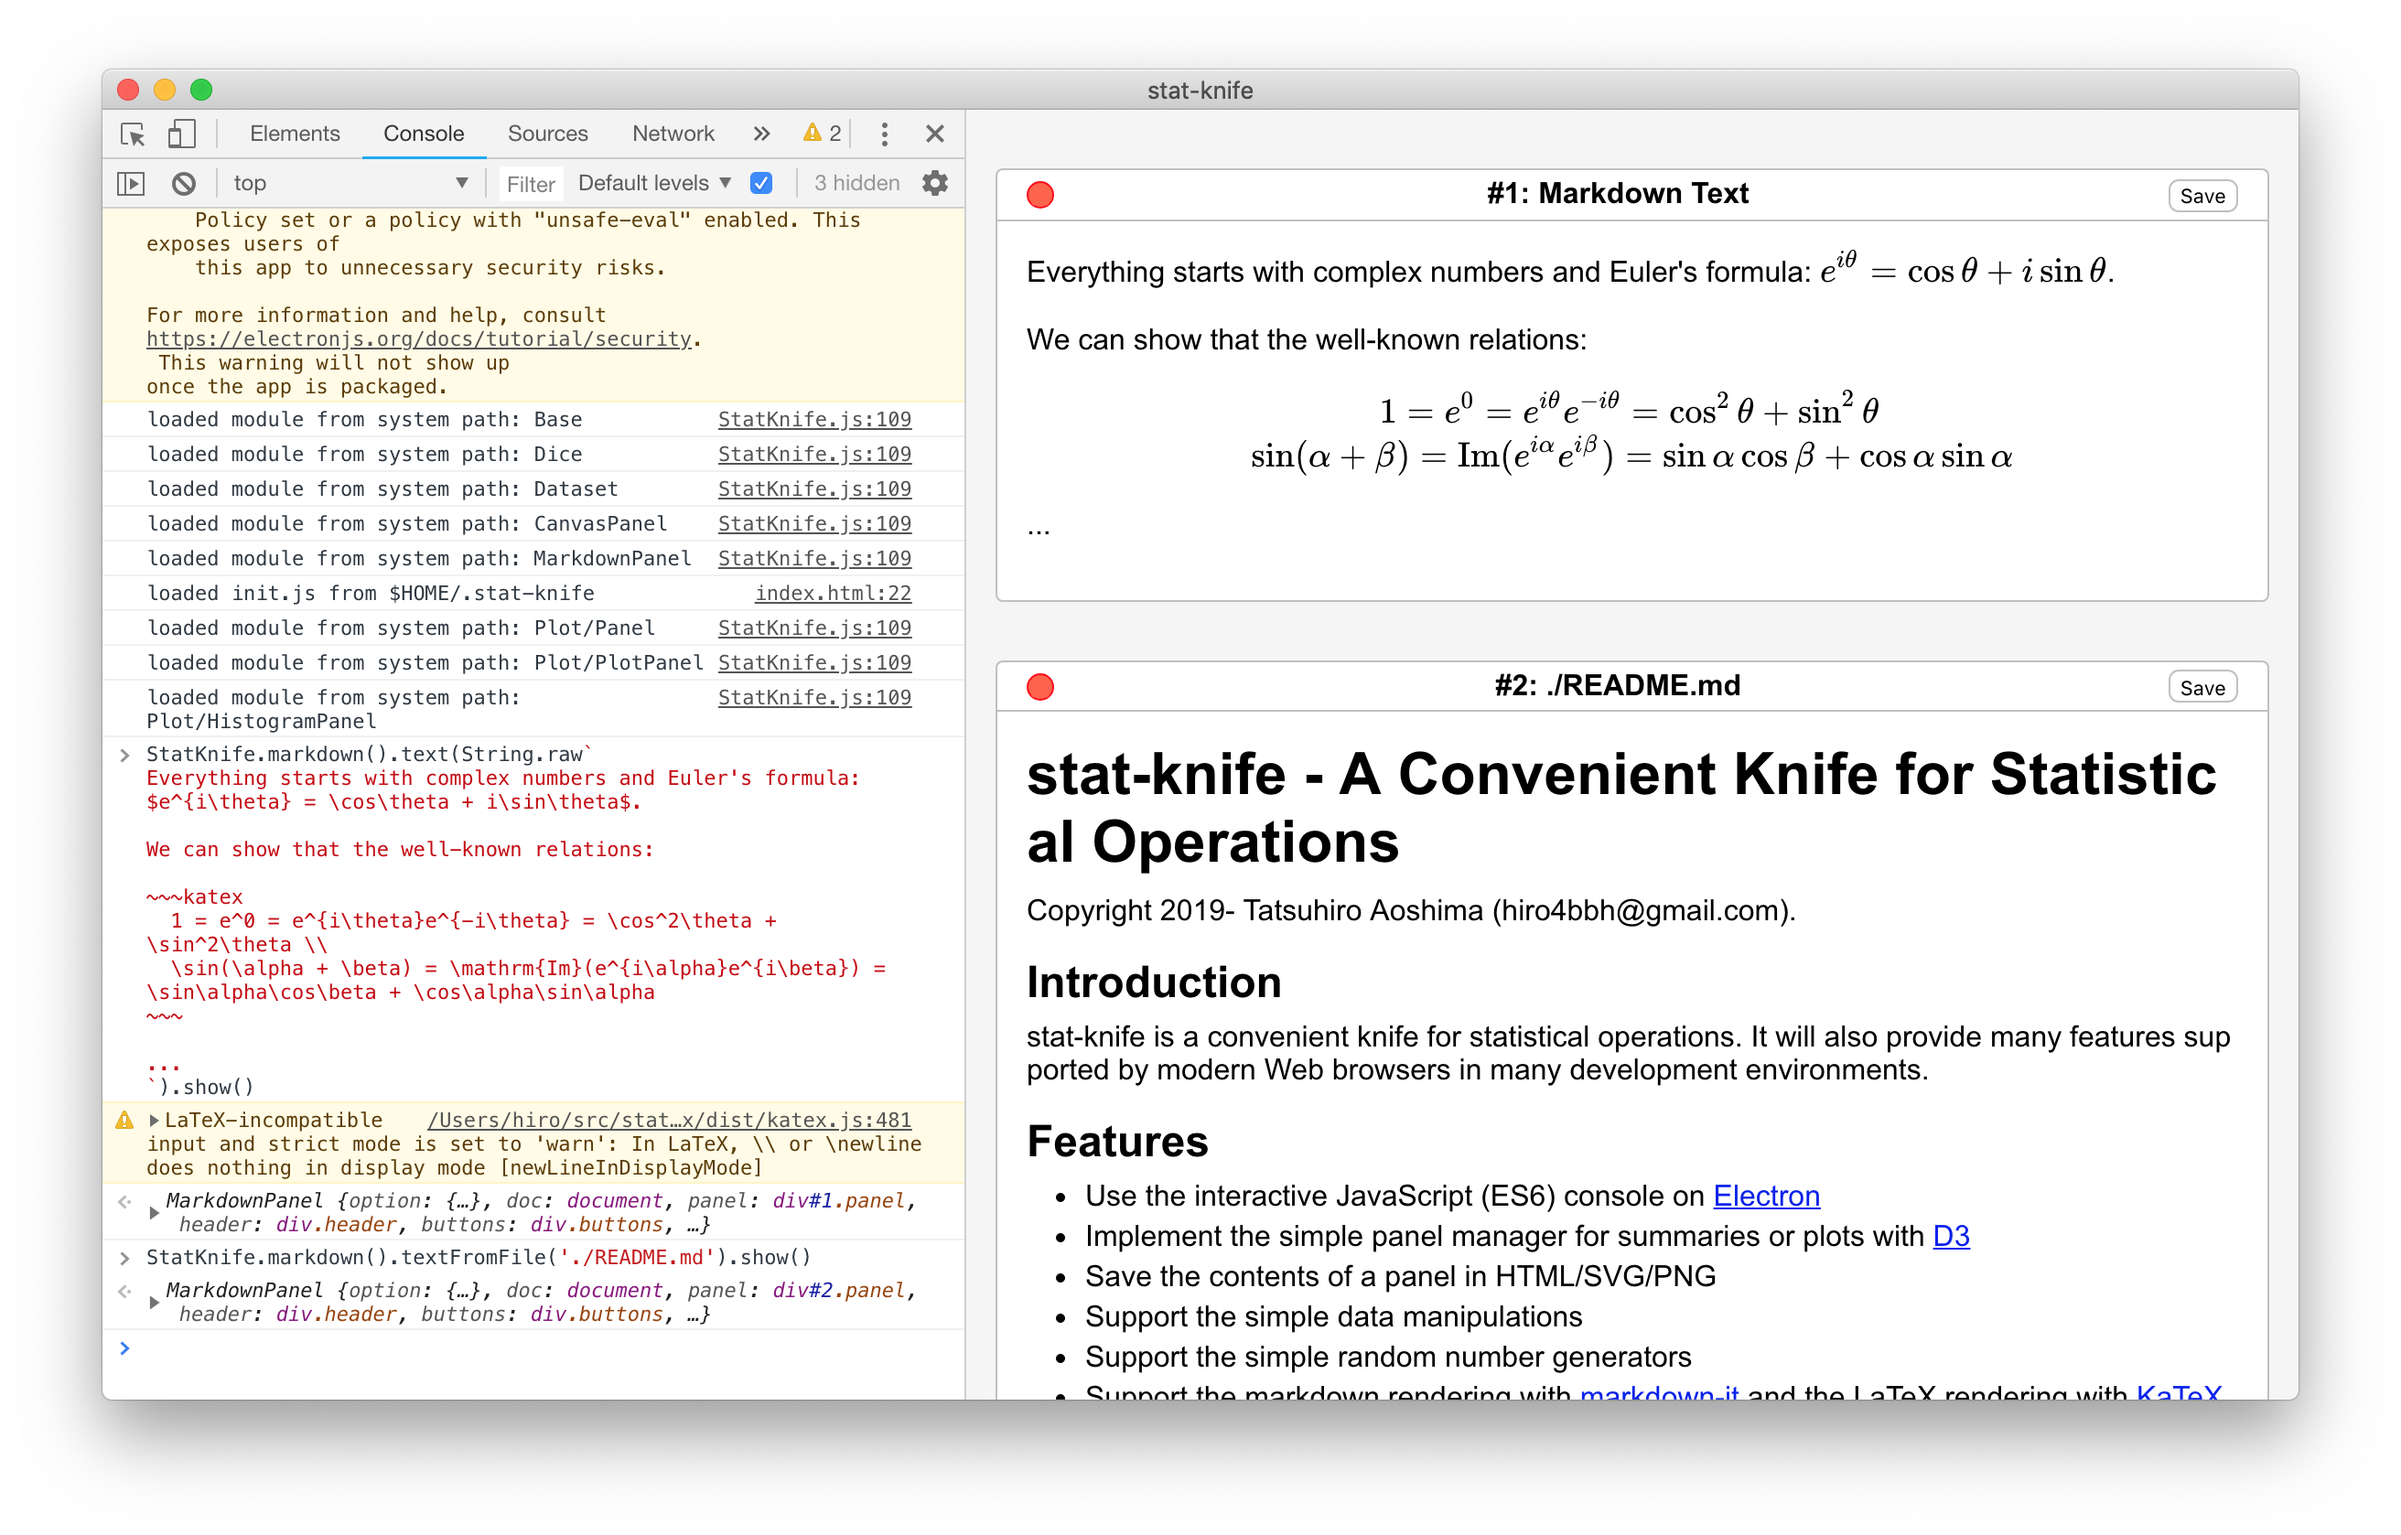
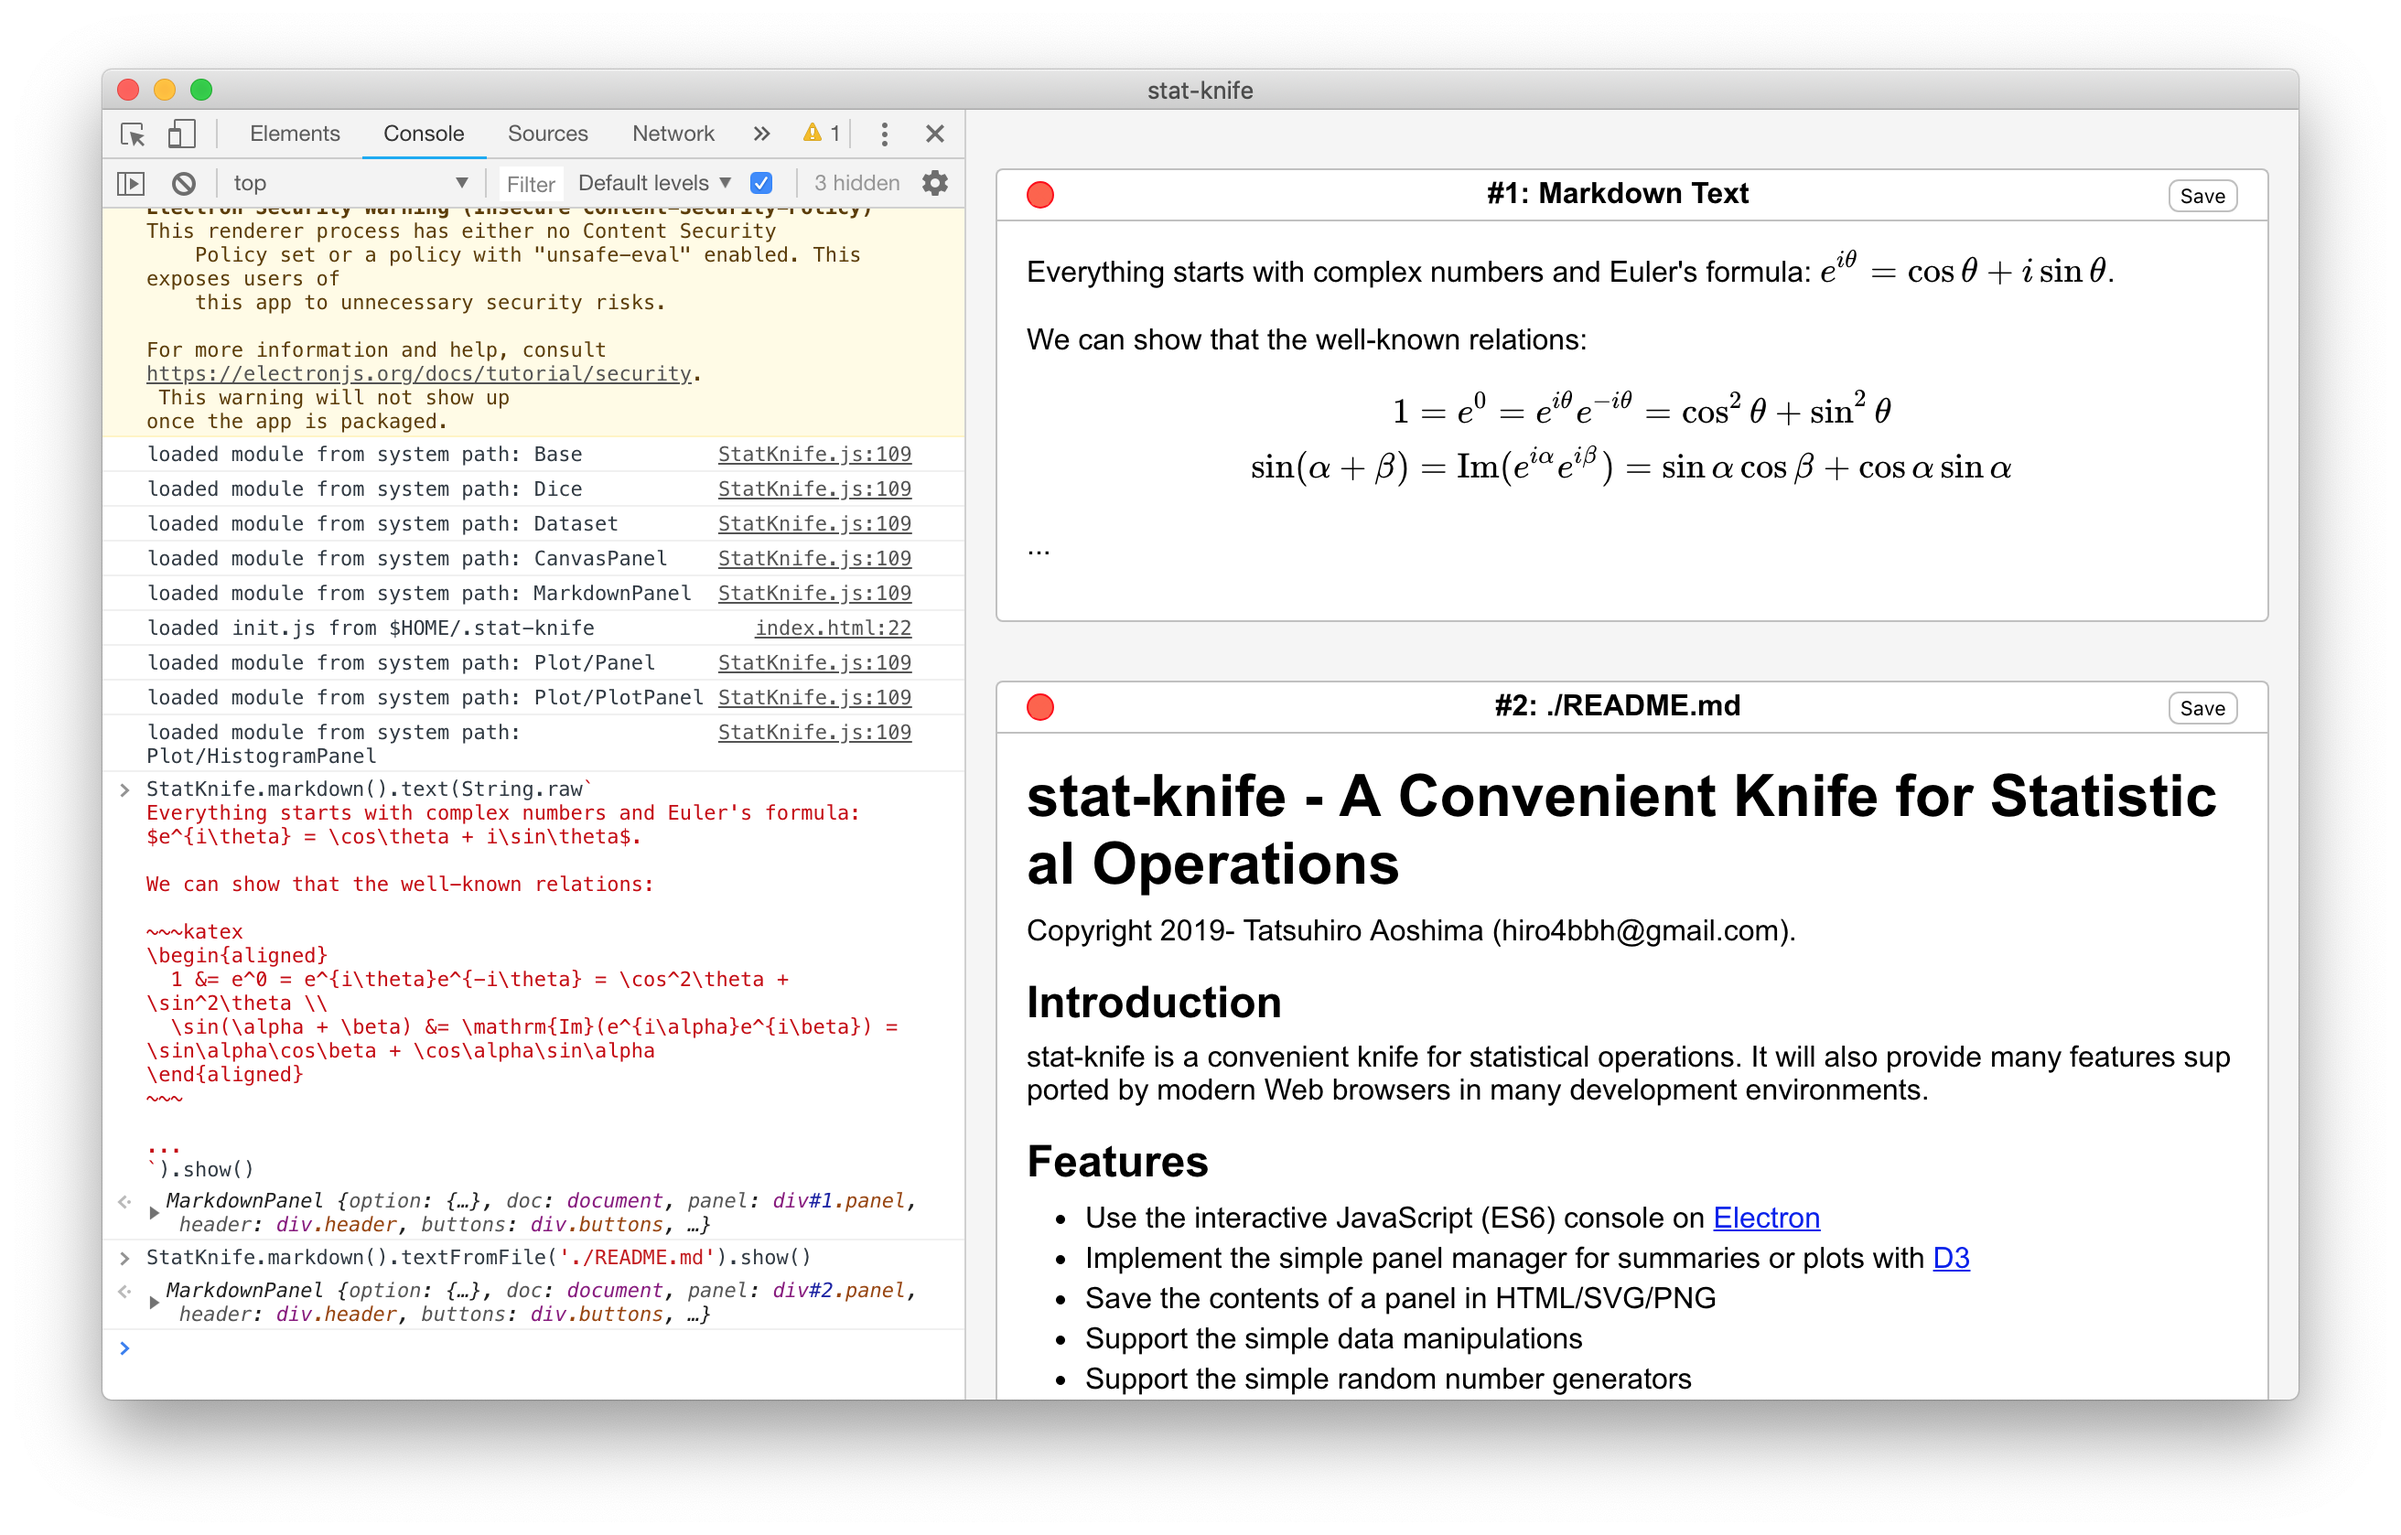
Refactored lib/MarkdownPanel.js

diff --git a/lib/MarkdownPanel.js b/lib/MarkdownPanel.js
@@ -2,9 +2,7 @@ const fs = require('fs');
 const MarkdownIt = require('markdown-it')({
   highlight: function (content, lang) {
     if (lang && lang == 'katex') {
-      try {
-        return katex.renderToString(content, {displayMode: true, throwOnError: false});
-      } catch (_) {}
+      return katex.renderToString(content, {displayMode: true, throwOnError: false});
     }
     // Use the external default escaping.
     return '';

diff --git a/README.md b/README.md
@@ -56,8 +56,10 @@ Everything starts with complex numbers and Euler's formula: $e^{i\theta} = \cos\
 We can show that the well-known relations:
 
 ~~~katex
-  1 = e^0 = e^{i\theta}e^{-i\theta} = \cos^2\theta + \sin^2\theta \\
-  \sin(\alpha + \beta) = \mathrm{Im}(e^{i\alpha}e^{i\beta}) = \sin\alpha\cos\beta + \cos\alpha\sin\alpha
+\begin{aligned}
+  1 &= e^0 = e^{i\theta}e^{-i\theta} = \cos^2\theta + \sin^2\theta \\
+  \sin(\alpha + \beta) &= \mathrm{Im}(e^{i\alpha}e^{i\beta}) = \sin\alpha\cos\beta + \cos\alpha\sin\alpha
+\end{aligned}
 ~~~
 
 ...
